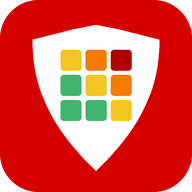
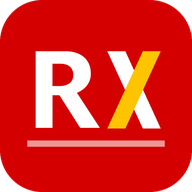
PWA: benzersiz manifest kimliği (UUID), projeye özel önbellek adı, RX simgesi

diff --git a/app/sw.js b/app/sw.js
@@ -6,7 +6,8 @@
 'use strict';
 
 const SURUM = '__SURUM__';
-const CACHE = `risk-analizi-${SURUM}`;
+const ONEK = 'dolfin-rax-44cce8b4-'; // aynı kökende (thevanerr.github.io) başka projelerin önbellekleriyle karışmaz
+const CACHE = `${ONEK}${SURUM}`;
 const SHELL = [
   './',
   'index.html',
@@ -32,7 +33,7 @@ self.addEventListener('install', (e) => {
 
 self.addEventListener('activate', (e) => {
   e.waitUntil(caches.keys()
-    .then((keys) => Promise.all(keys.filter((k) => k.startsWith('risk-analizi-') && k !== CACHE).map((k) => caches.delete(k))))
+    .then((keys) => Promise.all(keys.filter((k) => k.startsWith(ONEK) && k !== CACHE).map((k) => caches.delete(k))))
     .then(() => self.clients.claim()));
 });
 

diff --git a/app/araclar/ikon-uret.py b/app/araclar/ikon-uret.py
@@ -1,41 +1,18 @@
-# Uygulama simgesi: Dolfin kırmızısı zemin, beyaz kalkan, içinde 3x3 risk matrisi (yeşil -> sarı -> kırmızı)
+# Uygulama simgesi: "RX" monogramı (R&AX) — Dolfin kırmızısı zemin, beyaz kalın R, X'in bir kolu sarı (risk/uyarı vurgusu)
 # Üretir: assets/ikon.png (256), assets/ikon.ico (kısayol), assets/pwa/ (PWA: 192, 512, maskable 512, apple 180, favicon 32)
 # Kullanım: python app/araclar/ikon-uret.py
 import os
-from PIL import Image, ImageDraw
+from PIL import Image, ImageDraw, ImageFont
 
 here = os.path.dirname(os.path.abspath(__file__))
 assets = os.path.join(here, '..', 'assets')
 pwa = os.path.join(assets, 'pwa')
 os.makedirs(pwa, exist_ok=True)
+font = os.path.join(assets, 'fonts', 'selawkb.ttf')
 
 RED = (212, 0, 0, 255)
 WHITE = (255, 255, 255, 255)
-GREEN, AMBER, ORANGE, HOT = (63, 181, 111, 255), (245, 197, 36, 255), (245, 124, 0, 255), (176, 0, 0, 255)
-# Risk matrisi: satır = olasılık (üst yüksek), sütun = şiddet (sağ yüksek)
-MATRIX = [
-    [AMBER, ORANGE, HOT],
-    [GREEN, AMBER, ORANGE],
-    [GREEN, GREEN, AMBER],
-]
-
-
-def shield(d, cx, top, w, h, fill):
-    """Üstü düz, altı sivri kalkan (bezier yerine çokgen yaklaşımı)"""
-    l, r = cx - w / 2, cx + w / 2
-    pts = [(l, top + h * 0.10), (cx - w * 0.18, top + h * 0.03), (cx, top), (cx + w * 0.18, top + h * 0.03), (r, top + h * 0.10)]
-    steps = 24
-    for i in range(1, steps + 1):  # sağ kenar, aşağı doğru kavisli
-        t = i / steps
-        x = r - (r - cx) * (t ** 2.2)
-        y = top + h * 0.10 + (h * 0.90) * t
-        pts.append((x, y))
-    for i in range(steps - 1, 0, -1):  # sol kenar, yukarı
-        t = i / steps
-        x = l + (cx - l) * (t ** 2.2)
-        y = top + h * 0.10 + (h * 0.90) * t
-        pts.append((x, y))
-    d.polygon(pts, fill=fill)
+AMBER = (255, 196, 0, 255)
 
 
 def draw(size, maskable=False, rounded=True):
@@ -45,23 +22,49 @@ def draw(size, maskable=False, rounded=True):
     if maskable or not rounded:
         d.rectangle([0, 0, s, s], fill=RED)
     else:
-        d.rounded_rectangle([0, 0, s - 1, s - 1], radius=int(s * 0.20), fill=RED)
-    k = 0.78 if maskable else 1.0  # maskable: içerik %80 güvenli bölgede kalır
-    cx = s / 2
-    sw, sh = s * 0.66 * k, s * 0.76 * k
-    top = (s - sh) / 2 + s * 0.01
-    shield(d, cx, top, sw, sh, WHITE)
-    # risk matrisi kalkanın üst-orta kısmında
-    g = sw * 0.56
-    gap = g * 0.06
-    cell = (g - 2 * gap) / 3
-    gx, gy = cx - g / 2, top + sh * 0.17
-    rad = max(2, int(cell * 0.16))
-    for ri, row in enumerate(MATRIX):
-        for ci, col in enumerate(row):
-            x0 = gx + ci * (cell + gap)
-            y0 = gy + ri * (cell + gap)
-            d.rounded_rectangle([x0, y0, x0 + cell, y0 + cell], radius=rad, fill=col)
+        d.rounded_rectangle([0, 0, s - 1, s - 1], radius=int(s * 0.22), fill=RED)
+    k = 0.80 if maskable else 1.0  # maskable: içerik %80 güvenli bölgede
+    # R harfi (yazı tipinden), X iki kalın çizgi
+    h = s * 0.40 * k                     # harf yüksekliği
+    f = ImageFont.truetype(font, int(h * 1.40))
+    bb = d.textbbox((0, 0), 'R', font=f)
+    rw, rh = bb[2] - bb[0], bb[3] - bb[1]
+    sc = h / rh
+    xw = h * 0.80                        # X genişliği
+    gap = h * 0.04
+    total = rw * sc + gap + xw
+    x0 = (s - total) / 2
+    y0 = (s - h) / 2 - h * 0.08
+    # R: ayrı katmanda çiz, yüksekliği h olacak şekilde ölçekle
+    layer = Image.new('RGBA', (int(rw) + 8, int(rh) + 8), (0, 0, 0, 0))
+    ImageDraw.Draw(layer).text((4 - bb[0], 4 - bb[1]), 'R', font=f, fill=WHITE)
+    layer = layer.resize((max(1, int(layer.width * sc)), max(1, int(layer.height * sc))), Image.LANCZOS)
+    im.alpha_composite(layer, (int(x0 - 4 * sc), int(y0 - 4 * sc)))
+    # X: iki kalın kol; sağ-üstten sol-alta kol sarı ve üstte
+    t = h * 0.21
+    xl, xr, yt, yb = x0 + rw * sc + gap, x0 + total, y0, y0 + h
+
+    def bar(p, q, col):
+        import math
+        dx, dy = q[0] - p[0], q[1] - p[1]
+        L = math.hypot(dx, dy)
+        nx, ny = -dy / L * t / 2, dx / L * t / 2
+        d.polygon([(p[0] + nx, p[1] + ny), (q[0] + nx, q[1] + ny), (q[0] - nx, q[1] - ny), (p[0] - nx, p[1] - ny)], fill=col)
+
+    # kollar harf kutusunu taşmasın diye uçlar yatay kesik
+    mask = Image.new('L', (s, s), 0)
+    ImageDraw.Draw(mask).rectangle([xl - t, yt, xr + t, yb], fill=255)
+    xlayer = Image.new('RGBA', (s, s), (0, 0, 0, 0))
+    d = ImageDraw.Draw(xlayer)
+    bar((xl + t * 0.35, yt - t), (xr - t * 0.35, yb + t), WHITE)
+    bar((xr - t * 0.35, yt - t), (xl + t * 0.35, yb + t), AMBER)
+    xlayer.putalpha(Image.composite(xlayer.getchannel('A'), Image.new('L', (s, s), 0), mask))
+    im.alpha_composite(xlayer)
+    # alt çizgi: rapor anteti motifi
+    by = yb + h * 0.16
+    line = Image.new('RGBA', (s, s), (0, 0, 0, 0))
+    ImageDraw.Draw(line).rectangle([x0, by, x0 + total, by + max(4, h * 0.08)], fill=(255, 255, 255, 150))
+    im.alpha_composite(line)
     return im.resize((size, size), Image.LANCZOS)
 
 

diff --git a/app/README.md b/app/README.md
@@ -49,6 +49,6 @@ Carlito ve Selawik (SIL OFL), semboller DejaVu Sans alt kümesi (`assets/fonts/L
 
 ## PWA ve GitHub Pages
 
-Uygulama kurulabilir bir PWA'dır: `manifest.webmanifest` (kimlik `/dolfin-cnk-rax-risk-analizi-5c1e7b92`; değiştirilirse kurulu uygulamalar ayrı uygulama sayılır), `sw.js` (uygulama kabuğunu ağ önce / önbellek yedek ile tutar; GitHub API, `__api/` ve `projects/` `models/` verileri önbelleğe girmez) ve `assets/pwa/` simgeleri (`python app/araclar/ikon-uret.py` üretir: kalkan içinde 3×3 risk matrisi).
+Uygulama kurulabilir bir PWA'dır: `manifest.webmanifest` (kimlik `./?pwa=dolfin-rax-risk-analizi-44cce8b4-4d1d-4fba-98c4-af3c1b3731f8`, start_url'e göre çözülür → `/R-AX/?pwa=…`; değiştirilirse kurulu uygulamalar ayrı uygulama sayılır), `sw.js` (uygulama kabuğunu ağ önce / önbellek yedek ile tutar; GitHub API, `__api/` ve `projects/` `models/` verileri önbelleğe girmez) ve `assets/pwa/` simgeleri (`python app/araclar/ikon-uret.py` üretir: kalkan içinde 3×3 risk matrisi).
 
 Yayın: `.github/workflows/pages.yml` — `main`'e `app/**` değişikliği gidince `app/` klasörünü (`araclar/`, `*.md`, kısayol betikleri hariç) GitHub Pages'e yükler ve `sw.js` içindeki `__SURUM__` değerini commit kimliğiyle değiştirir (her yayında önbellek yenilenir). Adres: `https://thevanerr.github.io/R-AX/`. Veriler yayına girmez; uygulama gizli veri deposuna kullanıcının kendi anahtarıyla bağlanır. Service worker yalnız https ve localhost'ta çalışır; `file://` kısayolu eskisi gibi açılır.
